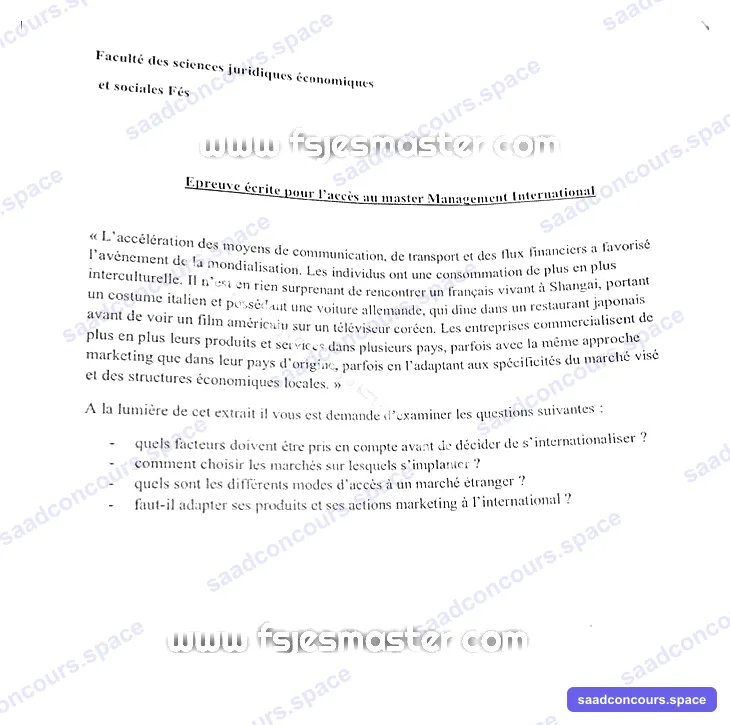
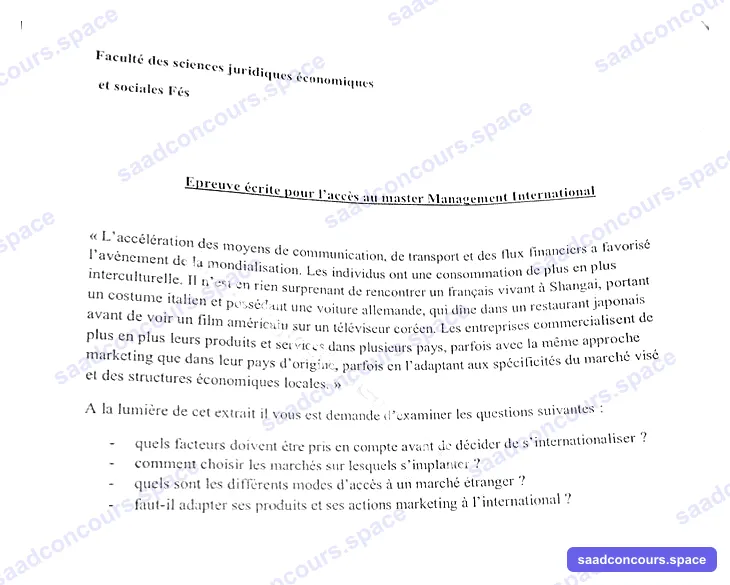
Efface les filigranes d'autres sites sur les scans des concours de Fès
Sur 14 scans ajoutés au commit précédent, les marques
« masterfsjes.blogspot.com » (rose ou en lettres blanches) et
« www.fsjesmaster.com » (en noir ou en diagonale grise) restaient
visibles après nettoyer-scans.mjs. Elles sont effacées sur les photos
d'origine (couleur du papier voisin, liseré compris), puis les scans
sont refiltrés et filigranés saadconcours.space. Seuil 200 pour la
diagonale du QCM d'Économie Appliquée 2022 (page 2). La méthode est
notée dans la banque de prompts (section Scans).

diff --git a/BANQUE_PROMPTS.md b/BANQUE_PROMPTS.md
@@ -249,6 +249,17 @@ Règles des champs :
   partir de sa partie intacte ; blanchir les cellules vides où le lecteur a écrit (précédent : AIFF
   Kénitra 2025).
 
+- Filigranes que `nettoyer-scans.mjs` ne voit pas (précédent : 23 concours de Fès, 2026-10-05) :
+  « masterfsjes.blogspot.com » **rose** avec un liseré sombre, « www.fsjesmaster.com » en lettres
+  **blanches** au milieu de la page, ou en noir gras posé dans un blanc du sujet. Les effacer sur la
+  photo d'origine **avant** `nettoyer-scans.mjs --source=…` : pixels roses (r > 120, r − g > 45) ou
+  lettres plus claires que le papier, plus leur liseré à 3 px, remplacés par la couleur du papier
+  voisin (70e centile, jamais du blanc pur : la photo est grise et un aplat blanc laisse un cadre).
+  Seuil du liseré **relatif au papier** (0,72 × papier) : un seuil fixe rate les photos sombres.
+  Ne jamais élargir le masque au-delà de 3 px : sur une ligne du sujet, il emporte les mots.
+  Marque noire dans un blanc : rectangle serré, rempli de la couleur du papier. Diagonale grise
+  restante : `"seuil": 200` dans les exceptions.
+
 ### C1 — Ajouter N concours depuis internet
 1. **Inventaire** : charger `concours.json`, lister les `source` (URLs) et les couples
    (établissement, master, année) déjà présents.
